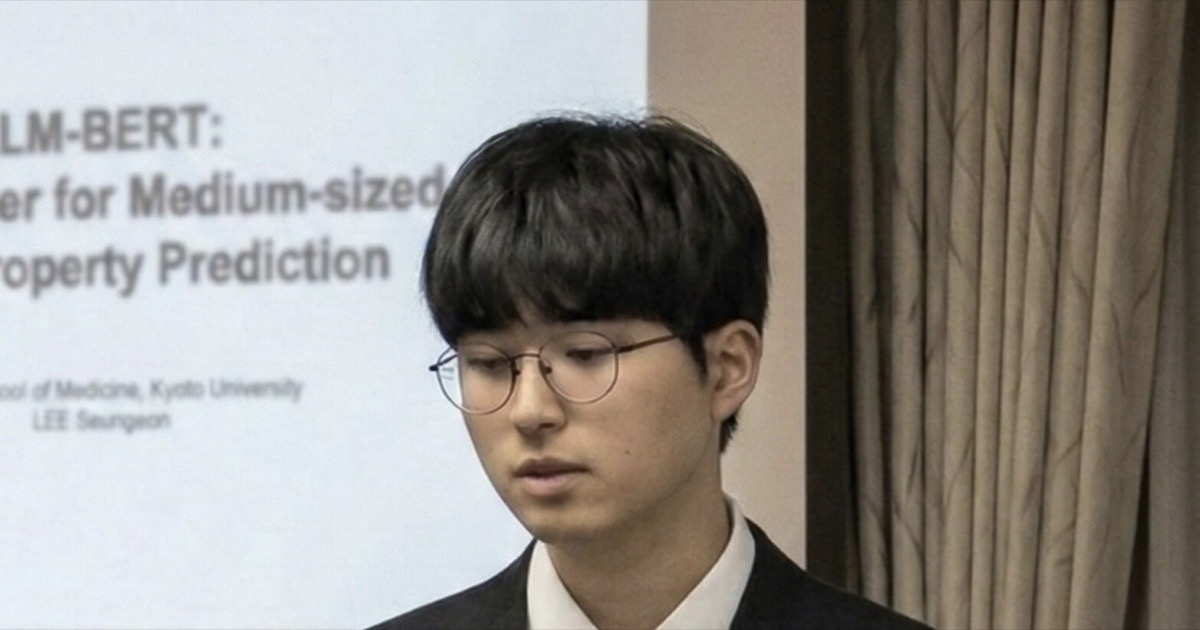
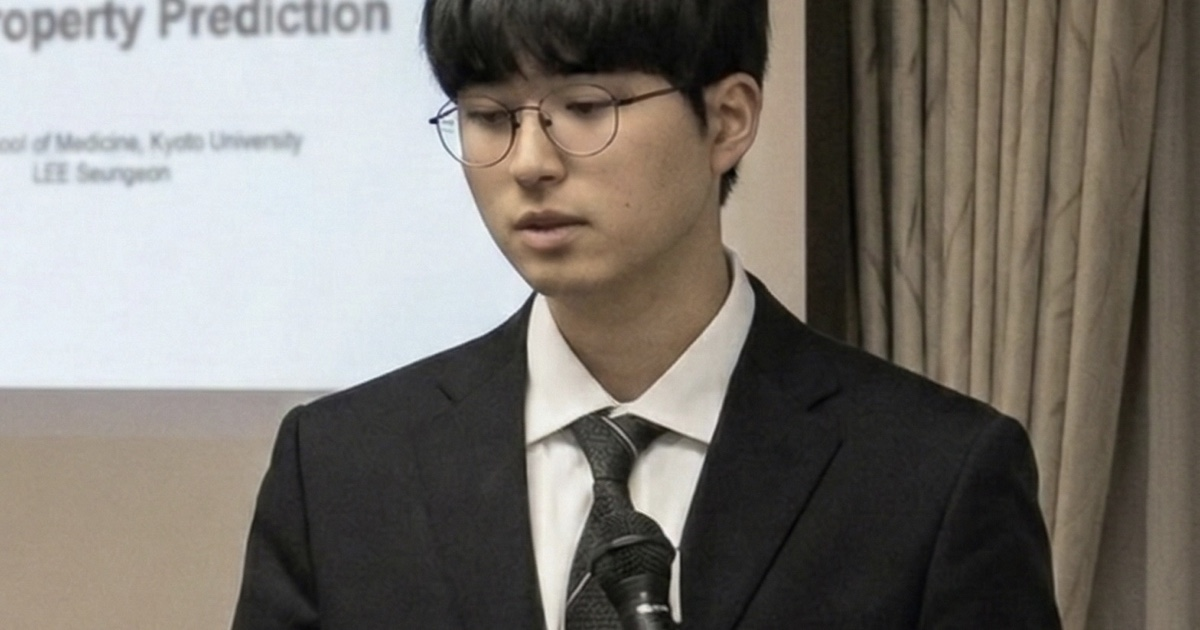
Drop the site-wide image default: each page's card is its own, or none
Reverts the previous two commits' direction. A single default meant one talk's
photo fronted every publication and preprint — with that talk's older title
visible on the slide inside it. Per-page is correct, and a page with no picture
does not need one.

- _config.yml: no `image:` in defaults, and the `default_image` key is gone.
- Talks with a photo set `image:` again (page hero + their own og:image);
  `hero:`/`hero_width`/`hero_height` are folded back into `image:`/`image_width`/
  `image_height` since the field no longer does double duty.
- index.html declares `image: /assets/img/og-card.jpg` in its own front matter —
  that card represents the homepage, so it belongs on the homepage.
- The `!= site.default_image` guards are deleted rather than maintained: with
  nothing injected, `{% if page.image %}` means what it says.
- JSON-LD omits `image` entirely when an entry has none, instead of asserting the
  share card as the work's representative image.
- Restored og-card.jpg to its previous bytes (158,111 B). I had recropped it
  without being asked to; that change is undone.

diff --git a/index.html b/index.html
@@ -1,6 +1,9 @@
 ---
 layout: default
 description: "Seungeon Lee's portfolio site — AI-driven medium-sized peptide drug discovery"
+# The homepage's own share card. Set here, on the one page it represents, rather than
+# as a site-wide default that every publication and talk would inherit.
+image: /assets/img/og-card.jpg
 ---
 
 <!-- Hero -->
@@ -148,8 +151,7 @@ description: "Seungeon Lee's portfolio site — AI-driven medium-sized peptide d
             {% comment %}alt="" — decorative here. It sat inside the same <a> whose first
             child is the title, so a screen reader announced every talk title twice.
             `thumb:` is a 240x160 derivative (2x the 120x80 CSS box); the full photo was
-            being shipped at full resolution into that box. No `site.default_image` guard
-            needed — unlike `image:`, `thumb:` is never injected by _config defaults.{% endcomment %}
+            being shipped at full resolution into that box.{% endcomment %}
             {% if t.thumb %}<img class="biblio-thumb" src="{{ t.thumb | relative_url }}" alt="" width="240" height="160" loading="lazy" decoding="async">{% endif %}
           </a>
         </li>
@@ -222,7 +224,7 @@ description: "Seungeon Lee's portfolio site — AI-driven medium-sized peptide d
       <li class="section-item award-accordion">
         {% comment %}Liquid has no operator precedence, so resolve the photo test first.{% endcomment %}
         {% assign has_photo = false %}
-        {% if a.image and a.image != site.default_image %}{% assign has_photo = true %}{% endif %}
+        {% if a.image %}{% assign has_photo = true %}{% endif %}
         {% comment %}A real <button> with aria-expanded/aria-controls, not a role="button"
         div: the div announced no expanded state, and the collapsed body was only
         max-height:0, so its links stayed in the tab order and the accessibility tree.

diff --git a/_layouts/talk.html b/_layouts/talk.html
@@ -25,15 +25,15 @@ layout: default
     <p class="biblio-meta" lang="en">{% include authors-hl.html item=page %}.</p>
     {% endif %}
 
-    {% comment %}`hero:` is the in-page photo, deliberately separate from `image:` (which
-    drives og:image and is left at the site default so a shared link is not a
-    platform-cropped portrait). Above the fold, so eager + high priority. width/height
-    come from `hero_width`/`hero_height` because Jekyll cannot measure images without a
-    plugin and GitHub Pages allows none — without them the box reserves no height and
-    everything below jumps when the image decodes.{% endcomment %}
-    {% if page.hero %}
+    {% comment %}`image:` is this page's own picture — the hero here and its og:image.
+    No `site.default_image` guard: nothing injects a default any more, so the field is
+    set only when the entry actually has a photo. Above the fold, hence eager + high
+    priority. width/height come from front matter because Jekyll cannot measure images
+    without a plugin and GitHub Pages allows none; without them the box reserves no
+    height and everything below jumps when the image decodes.{% endcomment %}
+    {% if page.image %}
     <div class="talk-hero">
-      <img src="{{ page.hero | relative_url }}" alt="{{ page.title }}"{% if page.hero_width and page.hero_height %} width="{{ page.hero_width }}" height="{{ page.hero_height }}"{% endif %} loading="eager" fetchpriority="high" decoding="async">
+      <img src="{{ page.image | relative_url }}" alt="{{ page.title }}"{% if page.image_width and page.image_height %} width="{{ page.image_width }}" height="{{ page.image_height }}"{% endif %} loading="eager" fetchpriority="high" decoding="async">
     </div>
     {% endif %}
 

diff --git a/_includes/jsonld/talk.html b/_includes/jsonld/talk.html
@@ -1,6 +1,8 @@
 {%- assign prof = site.data.profile -%}
 {%- assign _start = page.date | date_to_xmlschema -%}
-{%- assign _img = page.image | default: '/assets/img/og-card.jpg' | absolute_url -%}
+{%- comment -%} Only claim an image when the entry actually has one; there is no
+     site-wide fallback card any more. {%- endcomment -%}
+{%- if page.image -%}{%- assign _img = page.image | absolute_url -%}{%- endif -%}
 {%- assign _description = page.description -%}
 {%- if _description == nil or _description == '' -%}
   {%- capture _description -%}{{ page.title }} — Talk by {{ page.presenter | default: prof.name.full }} at {{ page.venue }} ({{ page.date | date: "%Y-%m-%d" }}).{%- endcapture -%}
@@ -101,8 +103,8 @@
     "name": {{ page.organizer | default: page.conference_title | default: page.venue | jsonify }}{% if page.organizer_url %},
     "url": {{ page.organizer_url | jsonify }}{% endif %}
   },
-  "image": "{{ _img }}",
-  "url": "{{ page.url | absolute_url }}",
+{% if _img %}  "image": "{{ _img }}",
+{% endif %}  "url": "{{ page.url | absolute_url }}",
   "description": {{ _description | jsonify }}{% if _authors.size > 0 %},
   "workPerformed": {
     "@type": "ScholarlyArticle",

diff --git a/_includes/jsonld/preprint.html b/_includes/jsonld/preprint.html
@@ -1,5 +1,7 @@
 {%- assign prof = site.data.profile -%}
-{%- assign _img = page.image | default: '/assets/img/og-card.jpg' | absolute_url -%}
+{%- comment -%} Only claim an image when the entry actually has one; there is no
+     site-wide fallback card any more. {%- endcomment -%}
+{%- if page.image -%}{%- assign _img = page.image | absolute_url -%}{%- endif -%}
 {%- assign _authors = '' | split: '' -%}
 {%- if page.authors -%}
   {%- if page.authors.first -%}
@@ -21,8 +23,8 @@
   "name": {{ page.title | jsonify }},
   "headline": {{ page.title | jsonify }},
   "url": "{{ page.url | absolute_url }}",
-  "image": "{{ _img }}",
-  "datePublished": "{{ page.date | date_to_xmlschema }}",
+{% if _img %}  "image": "{{ _img }}",
+{% endif %}  "datePublished": "{{ page.date | date_to_xmlschema }}",
   "inLanguage": "en",
   "creativeWorkStatus": "Preprint",
   "publishingPrinciples": "https://arxiv.org/help/general"{% if _authors.size > 0 %},

diff --git a/_includes/jsonld/publication.html b/_includes/jsonld/publication.html
@@ -1,5 +1,7 @@
 {%- assign prof = site.data.profile -%}
-{%- assign _img = page.image | default: '/assets/img/og-card.jpg' | absolute_url -%}
+{%- comment -%} Only claim an image when the entry actually has one; there is no
+     site-wide fallback card any more. {%- endcomment -%}
+{%- if page.image -%}{%- assign _img = page.image | absolute_url -%}{%- endif -%}
 {%- comment -%} Build authors list {%- endcomment -%}
 {%- assign _authors = '' | split: '' -%}
 {%- if page.authors -%}
@@ -17,8 +19,8 @@
   "name": {{ page.title | jsonify }},
   "headline": {{ page.title | jsonify }},
   "url": "{{ page.url | absolute_url }}",
-  "image": "{{ _img }}",
-  "datePublished": "{{ page.date | date_to_xmlschema }}",
+{% if _img %}  "image": "{{ _img }}",
+{% endif %}  "datePublished": "{{ page.date | date_to_xmlschema }}",
   "inLanguage": "en"{% if _authors.size > 0 %},
   "author": [{% for a in _authors %}{
     "@type": "Person",

diff --git a/CLAUDE.md b/CLAUDE.md
@@ -66,7 +66,9 @@ To add a new content item, copy the matching scaffold from `_templates/` (exclud
 
 **Icons are inline SVG via `{% include icon.html name="…" %}`** (`_includes/icon.html`, official Material Icons Outlined geometry, Apache 2.0). The Material Icons *webfont* was removed: it cost 155 KB to draw eight glyphs and, because it loaded non-blocking with `display=swap` and the CSS never set a local `font-family`, the ligature names rendered as the literal words "light_mode"/"psychology" until it arrived. Add a glyph by adding a `when` branch, not by reintroducing the font. Likewise **CJK is served from the reader's OS fonts** (see the `body` stack in `style.css`) — `Noto Sans KR` used to be fetched on every page for ~1.9 MB of woff2 and forced Korean glyph forms onto Japanese text. Inter is requested as one variable axis (`wght@400..700`), which is why `font-weight: 500` now renders.
 
-**Three image roles, three fields — never one field doing several jobs.** Talks use `hero:` (+ `hero_width`/`hero_height`) for the full-frame photo on the page, `thumb:` for the 240×160 list crop, and leave `image:` **unset** so og:image falls through to the site card. That last part is deliberate and load-bearing: `image:` is what jekyll-seo-tag turns into og:image, and a portrait photo there gets centre-cropped by X/LinkedIn in the link preview — cutting the presenter's head off and dropping the slide title. The site card is used instead, by the owner's choice. Awards still use `image:` (they have no page, so no og:image) pointing at a `-960` derivative for the 480px accordion box; the header logo is `-128` for its 64px slot.
+**There is no site-wide share card, on purpose.** `_config.yml` `defaults` sets no `image:`, so an entry's `image:` is its *own* picture — used as the page hero and as its og:image — and a page without one emits no og:image at all. A single default would have made one talk's photo the card for every publication and preprint, with that talk's (older) title visible on the slide inside it. The homepage sets `image: /assets/img/og-card.jpg` in its own front matter, because that card represents the homepage specifically.
+
+Consequences worth knowing: `image:` is never injected, so `{% if page.image %}` means what it says and needs no `!= site.default_image` guard (that guard and the `default_image` config key are both gone). `thumb:` is a separate field for the 240×160 PRESENTATIONS crop. Awards use `image:` with a `-960` derivative for their 480px accordion box; the header logo is `-128` for its 64px slot. And note what a portrait `image:` means socially: X/LinkedIn centre-crop it to 1.91:1 in link previews, which on a podium photo cuts the top of the head off — that is a property of the photo's aspect ratio, not something the site controls.
 
 Originals stay in the repo as sources. `awards/cbi2025-award.jpg` and `okuno-lab-logo-white.png` are intentionally unreferenced — do not "clean them up". Generate derivatives with `sips --resampleWidth N`, `sips -c H W` to crop centred, or `sips -c H W --cropOffset Y X` when the centre is the wrong place to cut. Re-check the byte count afterwards: on already-compressed sources, re-encoding can make the file *bigger* (the CBI photo grew from 442 KB to 546 KB at `formatOptions 82`), so the win comes from resizing, not from quality.
 
@@ -90,19 +92,12 @@ Each image file maps to exactly one role — don't reuse across roles:
 |---|---|---|---|
 | `assets/img/face.jpg` | 531×531 square | Identity headshot | apple-touch-icon, ABOUT profile-img, Person.image JSON-LD |
 | `assets/img/pwa-icon-512.png` | 512×512 square | PWA install icon | `manifest.webmanifest` only |
-| `assets/img/og-card.jpg` | 1200×630 landscape | Social share card | Site-wide default `image:` (`_config.yml`), all JSON-LD content fallbacks |
+| `assets/img/og-card.jpg` | 1200×630 landscape | Homepage share card | `image:` in `index.html` front matter only — not a site-wide default |
 
-`og-card.jpg` is a landscape crop of `talks/cbi2025-oral.jpg`, cut so the presenter's head is intact and the slide title stays legible. It is regenerable — do not hand-crop it centred, which cuts the crown of the head off (that was the previous version):
-
-```bash
-sips -c 823 1568 --cropOffset 470 0 assets/img/talks/cbi2025-oral.jpg --out assets/img/og-card.jpg
-sips --resampleWidth 1200 assets/img/og-card.jpg --out assets/img/og-card.jpg
-```
-
-Caveat to keep in mind when it is next revisited: one talk's photo serves as the card for *every* page, so the slide visible in it names an older title than, say, the JCIM publication page it fronts. A photo-free typographic card would be page-agnostic; this is a deliberate trade for now.
+`og-card.jpg` is a landscape crop of the CBI 2025 talk photo. It fronts the homepage only. If it is ever recropped, do not cut it centred — that removes the crown of the head; `sips -c H W --cropOffset Y X` lets you choose where to cut.
 | `assets/img/favicon.svg` | vector "SL" letters | Browser tab + small icons | `<link rel="icon">` |
 | `assets/img/okuno-lab-logo-white.png` | square | Lab affiliation logo | `_includes/header.html` (header brand) |
 
-**Gotcha: omitting `image:` does not mean "no photo."** `_config.yml` `defaults` injects `image: /assets/img/og-card.jpg` on every page, so a bare `{% if page.image %}` is *always* true and the generic social card leaks in as if it were content imagery. Anything rendering `image:` as in-page content must guard with `!= site.default_image` — today that is the award photo in `index.html`. Talk heroes and list thumbnails use their own `hero:`/`thumb:` fields precisely to avoid this: those are never defaulted, so they need no guard. Do **not** "fix" the gotcha by putting `image: false` in front matter — that also kills the og:image social card. `site.default_image` is the single source of truth for the fallback path.
+**Historical note.** `_config.yml` used to inject `image:` on every page, which made `{% if page.image %}` always true and leaked the share card into pages as if it were content imagery (it appeared as a bibliography thumbnail, an award photo and a talk hero banner). The fix was removing the default, not adding guards. Do not reintroduce a site-wide `image:` default.
 
 Per-page `image:` frontmatter overrides the site default — use this on publication/talk pages that have their own banner (e.g., HELM-BERT publication uses `helm-bert-architecture.png` as og:image). Sub-folders under `assets/img/` (`awards/`, `talks/`, `publications/`) hold per-content images named `{event-or-id}-{role}.{ext}` (e.g., `cbi2025-oral.jpg`, `helm-bert-architecture.png`). Photos save as JPG quality ~88; diagrams/screenshots save as PNG (run `pngquant --quality=80-95 --strip` to optimize).

diff --git a/_templates/talk.md b/_templates/talk.md
@@ -43,18 +43,17 @@ description: "Short summary used as meta description and social preview."
 # arxiv_id: "2512.23175"      # → citation_arxiv_id
 # doi: "10.xxxx/yyy"          # → citation_doi
 # pdf_url: https://...        # → citation_pdf_url (auto-detected from links if any link ends in .pdf)
-# --- Images: three distinct roles, do not collapse them into one field ---
-# hero: /assets/img/talks/filename.jpg    # The photo shown on this page, full frame.
-# hero_width: 1280                        # REQUIRED with hero: — intrinsic pixel size.
-# hero_height: 960                        # Jekyll can't measure images (no plugins on
+# --- Images. Omit all of these if the talk has no photo; nothing is defaulted. ---
+# image: /assets/img/talks/filename.jpg   # This entry's photo: page hero AND its og:image.
+# image_width: 1280                       # REQUIRED with image: — intrinsic pixel size.
+# image_height: 960                       # Jekyll can't measure images (no plugins on
                                           # GH Pages); without these the box reserves
                                           # no height and the page jumps on decode.
 # thumb: /assets/img/talks/filename-thumb.jpg   # 240x160 crop for the PRESENTATIONS list
 #                                               # (2x its 120x80 CSS box).
-# image:                                  # LEAVE UNSET. og:image then falls through to
-                                          # the site card. Setting it to a portrait photo
-                                          # means X/LinkedIn centre-crop it in the shared
-                                          # link preview, cutting the presenter's head off.
+                                          # Note: a portrait `image:` gets centre-cropped
+                                          # by X/LinkedIn in link previews (1.91:1), which
+                                          # on a podium shot cuts off the top of the head.
 
 # --- Multilingual (used by current JS i18n; preserved for future static i18n) ---
 # title_ja: "..."

diff --git a/_talks/2025-10-29-helm-bert-cbi.md b/_talks/2025-10-29-helm-bert-cbi.md
@@ -21,11 +21,9 @@ address_street: "4-1-1 Funabori"
 address_locality: "Edogawa-ku"
 address_region: "Tokyo"
 description: "Oral presentation (Award winner) at CBI 2025 introducing HELM-BERT, a transformer for medium-sized peptide property prediction using HELM notation."
-# No `image:` — og:image falls through to the site card on purpose, so a shared
-# link is not a platform-cropped portrait photo. The full photo is the page hero.
-hero: /assets/img/talks/cbi2025-oral.jpg
-hero_width: 1568
-hero_height: 2409
+image: /assets/img/talks/cbi2025-oral.jpg
+image_width: 1568
+image_height: 2409
 thumb: /assets/img/talks/cbi2025-oral-thumb.jpg
 links:
   - label: Oral list (EN)

diff --git a/_talks/2026-03-09-yokawa-chatgpt.md b/_talks/2026-03-09-yokawa-chatgpt.md
@@ -21,10 +21,9 @@ address_locality: "Miki"
 address_region: "Hyogo"
 address_postal: "673-1231"
 description: "Invited lecture at Yokawa Hospital (Hyogo) for ~60-70 staff covering practical LLM adoption for healthcare workflows, custom GPTs, and information security."
-# No `image:` — see the CBI talk: og:image is left to the site card.
-hero: /assets/img/talks/yokawa-chatgpt-2026.jpg
-hero_width: 1280
-hero_height: 960
+image: /assets/img/talks/yokawa-chatgpt-2026.jpg
+image_width: 1280
+image_height: 960
 thumb: /assets/img/talks/yokawa-chatgpt-2026-thumb.jpg
 content_ja: |
   ## 概要
